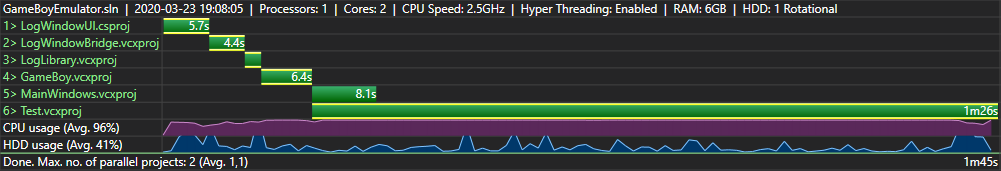
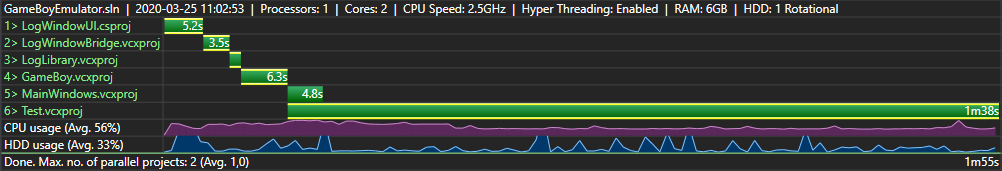
Final review

diff --git a/_drafts/investigating-cpp-compile-times-1.md b/_drafts/investigating-cpp-compile-times-1.md
@@ -1,6 +1,6 @@
 ---
 layout: single
-title: "Useful tools to investigate C++ build times"
+title: "Useful tools to investigate C++ compile times"
 excerpt: "Let's talk about some of the tools I found and how I used them"
 author: Meta
 category: Toolbox
@@ -19,7 +19,7 @@ People build the projects they work on several times a day. More often than not,
 
 These cycles take some time and what happens under the hood is totally dependent on your development environment and project.
 
-It took me a while to start worrying about these cycles and whether they were long or not. You know why it started? With rising anxiety and feeling I wasn't as productive.
+It took me a while to start worrying about these cycles and whether they were long or not. You know why it started? With rising anxiety and a feeling that I wasn't as productive.
 
 These slow build times come with some costs:
 
@@ -30,20 +30,26 @@ So, a while ago I set myself on a journey to identify what was causing them. And
 
 This was (more or less!) the process to answer: **how long does it take to build?**
 
-Disclaimer: although we're talking about long build times, the project I'll use to illustrate the process is my (unreleased) Game Boy emulator. It's a small project that builds relatively quickly in my old laptop, so we won't really see huge build times.
+Disclaimer: I'll be illustrating the process with my (unreleased) GameBoy emulator side-project. It's a small project (we won't see huge numbers) but it's not a synthetic test (it mainly consists of C++ but uses C# and C++/CLI for a [log window]({{ '/' | absolute_url }}log-window-0/)). This post will only cover how to get some build times, we'll see examples of how to improve them in a later entry in the series.
 
 # Visual Studio options
 
-First of all, I needed some numbers. Just the big picture, nothing too detailed. All I had was Visual Studio's output panel, and it just said:
+Okay, so we build our project and have just an intuition of how long it takes. But we need some numbers! Just the big picture, nothing too detailed. All I had was Visual Studio's output panel, and it just said:
 
 {% highlight text %}
-1>------ Rebuild All started: Project: A, Configuration: Debug x64 ------
+1>------ Rebuild All started: Project: LogWindowUI, Configuration: Debug x64 ------
 1>  [...]
-2>------ Rebuild All started: Project: B, Configuration: Debug x64 ------
+2>------ Rebuild All started: Project: LogWindowBridge, Configuration: Debug x64 ------
 2>  [...]
-3>------ Rebuild All started: Project: C, Configuration: Debug x64 ------
+3>------ Rebuild All started: Project: LogLibrary, Configuration: Debug x64 ------
 3>  [...]
-========== Rebuild All: 3 succeeded, 0 failed, 0 skipped ==========
+4>------ Rebuild All started: Project: GameBoy, Configuration: Debug x64 ------
+4>  [...]
+5>------ Rebuild All started: Project: MainWindows, Configuration: Debug x64 ------
+5>  [...]
+6>------ Rebuild All started: Project: Test, Configuration: Debug x64 ------
+6>  [...]
+========== Rebuild All: 6 succeeded, 0 failed, 0 skipped ==========
 {% endhighlight %}
 
 I could take a stopwatch and start it as soon as I hit the build button, but not much more.
@@ -61,30 +67,25 @@ This page has several useful options, and we'll come back to it later on, but le
 If we increase it from `Minimal` to `Normal`, we get this output:
 
 {% highlight text %}
-1>------ Rebuild All started: Project: A, Configuration: Debug x64 ------
+1>------ Rebuild All started: Project: LogWindowUI, Configuration: Debug x64 ------
 1>Build started DD/MM/YYYY HH:MM:SS.
 1>  [...]
 1>Build succeeded.
 1>
-1>Time Elapsed 00:00:03.08
-2>------ Rebuild All started: Project: B, Configuration: Debug x64 ------
-2>Build started DD/MM/YYYY HH:MM:SS.
-2>  [...]
-2>Build succeeded.
-2>
-2>Time Elapsed 00:00:03.60
-3>------ Rebuild All started: Project: C, Configuration: Debug x64 ------
-3>Build started DD/MM/YYYY HH:MM:SS.
-3>  [...]
-3>ClCompile:
-3>  Main.cpp
-3>  [...]
-3>Link:
-3>  [...]
-3>Build succeeded.
-3>
-3>Time Elapsed 00:00:04.08
-========== Rebuild All: 3 succeeded, 0 failed, 0 skipped ==========
+1>Time Elapsed 00:00:02.47
+[...]
+6>------ Rebuild All started: Project: Test, Configuration: Debug x64 ------
+6>Build started DD/MM/YYYY HH:MM:SS.
+6>  [...]
+6>ClCompile:
+6>  Main.cpp
+6>  [...]
+6>Link:
+6>  [...]
+6>Build succeeded.
+6>
+6>Time Elapsed 00:01:36.92
+========== Rebuild All: 6 succeeded, 0 failed, 0 skipped ==========
 {% endhighlight %}
 
 Great! We now have some data to work with! There are three interesting additions:
@@ -93,7 +94,7 @@ Great! We now have some data to work with! There are three interesting additions
   * `Time Elapsed HH:MM:SS.ms`: we now know how long it took to build this project.
   * `ClCompile`, `Link` and other new sections: they are what MSBuild calls *targets*. We'll come back to them in depth later on.
 
-If we increase the previous option from `Normal` to `Detailed` the output will be more verbose, it will include more info on those *targets* and also add *tasks* to the log. All this data will prove extremely useful in the future, but they don't add extra information on how long it takes to build. The bad thing is the build itself gets slower as you increase this log level.
+If we increase the previous option from `Normal` to `Detailed` the output will be more verbose, it will include more info on those *targets* and also add *tasks* to the log. All this data will prove extremely useful in the future, but they don't add extra information on how long it takes to build. Even worse: the build itself gets slower as you increase this log level.
 
 ## VC++ Project Settings
 
@@ -105,30 +106,33 @@ When we enable it and build our project, we get something like this:
 
 {% highlight text %}
 [...]
-3>Project Performance Summary:
-3>     3592 ms  A.vcxproj   1 calls
-3>               3592 ms  Rebuild                                    1 calls
-3>
-3>Target Performance Summary:
-3>        0 ms  CppClean                                   1 calls
-3>        [...]
-3>        1 ms  GetCopyToOutputDirectoryXamlAppDefs        1 calls
-3>        [...]
-3>      176 ms  PostBuildEvent                             1 calls
-3>     1341 ms  Link                                       1 calls
-3>     1990 ms  ClCompile                                  1 calls
-3>
-3>Build succeeded.
-3>
-3>Time Elapsed 00:00:03.59
-========== Rebuild All: 3 succeeded, 0 failed, 0 skipped ==========
+6>------ Rebuild All started: Project: Test, Configuration: Debug x64 ------
+6>Build started 25/03/2020 11:03:11.
+6>  [...]
+6>Project Performance Summary:
+6>    96955 ms  F:\Development\GameBoyEmulator\Projects\Test\Test.vcxproj   1 calls
+6>              96955 ms  Rebuild                                    1 calls
+6>
+6>Target Performance Summary:
+6>        0 ms  AfterRebuild                               1 calls
+6>       [...]
+6>       41 ms  WarnCompileDuplicatedFilename              1 calls
+6>      182 ms  CoreCppClean                               1 calls
+6>      489 ms  SetCABuildNativeEnvironmentVariables       1 calls
+6>     2332 ms  Link                                       1 calls
+6>    93807 ms  ClCompile                                  1 calls
+6>
+6>Build succeeded.
+6>
+6>Time Elapsed 00:01:36.92
+========== Rebuild All: 6 succeeded, 0 failed, 0 skipped ==========
 {% endhighlight %}
 
 Now we're talking! This output includes the time spent on each *target* as reported by MSBuild (we still don't know what's a *target*!), so we know where it's getting slow. Are C++ file compilations slow? Or maybe link times are too high?
 
 By the way, this option and the one from the previous point aren't related to each other: you can leave the former as `Minimal` and enable the latter.
 
-So far, so good! What should we do with this, then? Should we try to parse this output and build a timeline? Let's continue looking for tools first.
+So far, so good! What should we do with this, then? Should we try to parse this output and build a timeline already? Let's continue looking for tools first.
 
 # Visual Studio extensions
 
@@ -145,16 +149,16 @@ Turns out, Visual Studio Extensions' SDK lets you get notified of some MSBuild k
 {% highlight text %}
 Solution loaded:    GameBoyEmulator
 ------------------------------------------------------------
- - 00h 00m 03s 551ms  -- LogWindowUI --
- - 00h 00m 03s 714ms  -- LogWindowBridge --
- - 00h 00m 01s 142ms  -- LogLibrary --
- - 00h 00m 04s 434ms  -- GameBoy --
- - 00h 00m 05s 542ms  -- MainWindows --
- - 00h 01m 10s 958ms  -- Test --
-[1] Time Elapsed: 00h 01m 24s 545ms     Session build time: 00h 01m 24s 545ms
+ - 00h 00m 05s 298ms  -- LogWindowUI --
+ - 00h 00m 03s 594ms  -- LogWindowBridge --
+ - 00h 00m 01s 555ms  -- LogLibrary --
+ - 00h 00m 06s 393ms  -- GameBoy --
+ - 00h 00m 04s 852ms  -- MainWindows --
+ - 00h 01m 38s 037ms  -- Test --
+[1] Time Elapsed: 00h 01m 55s 300ms     Session build time: 00h 01m 55s 300ms
 {% endhighlight %}
 
-While Visual Studio is open, it will keep track of the *session*, adding up each compilation you do. But, what if you close Visual Studio? The *session* is gone, but the coolest thing is that sessions are persisted to a JSON file! This way, you can always come back to them.
+While Visual Studio is open, it will keep track of the *session*, adding up each compilation you do. What if you close Visual Studio? The *session* is gone, but the coolest thing is that sessions are persisted to a JSON file! This way, you can always come back to them.
 
 This is good enough to compare two builds together!
 
@@ -162,7 +166,9 @@ This is good enough to compare two builds together!
 
 Have all programmers (or everyone using Visual Studio!) in your team install this extension. Build a script that collects each JSON file at the end of the day, sends it to a server and clears the local one. Later on, aggregate all files together, tag data as necessary and you have the time your team is wasting by building the project (including how often each project is built)! If you plot it, you can even see some trends over time or spikes when a big code change happens.
 
-Be careful! The results may be daunting at first (i.e. too much time wasted)!
+This is the *real time* people waste, not how long your build server takes to make a build.
+
+Be careful, tho! The results may be daunting at first (i.e. too much time wasted)!
 
 ## Parallel Builds Monitor
 
@@ -241,9 +247,9 @@ Although the slow build times I have investigated weren't related to code genera
 
 Again, I learned about this flag [thanks to Aras](https://aras-p.info/blog/2019/01/21/Another-cool-MSVC-flag-d1reportTime/){:target="_blank"}, so please check his post for all of the info. This one applies to the compiler's front-end (hence the `d1`).
 
-The bad thing about this flag is the huge amount of data it gives... and the cool thing is the huge amount of data it gives! You get, separately, the time spent when including files (hierarchically!), the time spent declaring classes and the one on functions. It also has a summary on each section with the top sorted culprits so you can find useful date more easily.
+The bad thing about this flag is the huge amount of data it gives... and the cool thing is the huge amount of data it gives! You get, separately, the time spent when including files (hierarchically!), the one declaring classes and the same for functions. It also has a summary on each section with the top sorted culprits so you can find useful data more easily.
 
-If only we could visualize this data in a more graphical way...
+If only we could visualize its output in a more graphical way...
 
 ![/d1reportTime as shown by Google Chrome's trace viewer]({{ '/' | absolute_url }}/assets/images/per-post/investigating-cpp-compile-times-1/teaser-d1reporttime-flag.png)
 
@@ -260,7 +266,7 @@ So far we've been talking about C++ development, and that means talking about `#
   * Front-end: reads code files, parses them, executes preprocessor directives (i.e. `#include` clauses) and applies semantic analysis.
   * Back-end: takes front-end's output and performs code generation.
 
-When you have large files and a lot of dependencies via `#include`, you're bound to have long front-end execution times. When that's the case, it's useful to see these connections.
+When you have large files and a lot of dependencies via `#include`, you're bound to have long front-end execution times. When that's the case, it's useful to see those connections.
 
 ## doxygen
 
